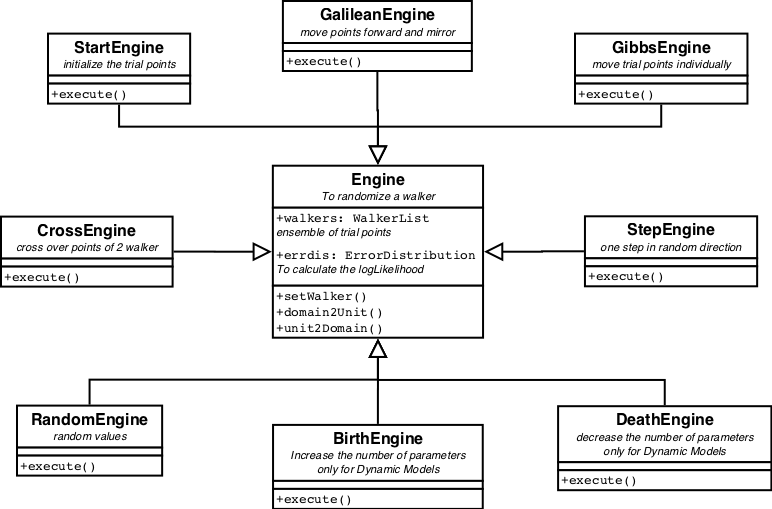
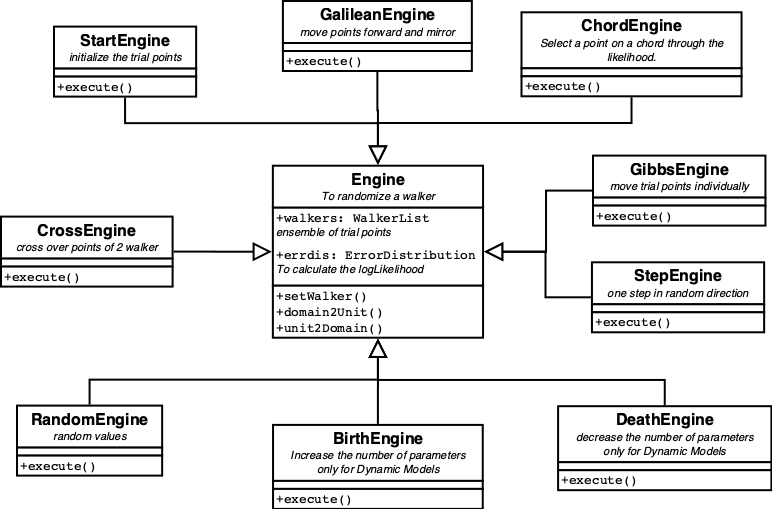
doc repairs

diff --git a/BayesicFitting/documentation/manual.md b/BayesicFitting/documentation/manual.md
@@ -955,12 +955,19 @@ parameter space such that the resulting walker is distributed randomly
 over the priors within the constraint that the likelihood associated
 with the walker remains higher than a preselected level.
 
-The engine of choice for continuous parameter estimation is the
-**GalileanEngine**. Starting at the copied walker it selects a random
+The engines of choice for continuous parameter estimation are the
+**GalileanEngine** and the **ChordEngine**. 
+
+The **GalileanEngine** starts at the copied walker. It selects a random
 step in parameter space and moves forward half a dozen times. When a
 step trespasses the likelihood boundary it mirrors on the boundary to
 get back into allowed space. If that is also unsuccesfull in reverses
 its steps.
+
+The **ChordEngine** selects a random direction, though its starting point.
+It extends that direction until is is outside the the selected level. 
+It selects a random point on the line. If it is inside the level, it is 
+the new point. Otherwise replace one of the endpoints and select again.
 
 The initial distribution of the walkers is made by **StartEngine**.
 
@@ -973,7 +980,7 @@ The keyword `rate` governs the speed of the engines. High rate equals
 high speed equals low accuracy.  
 
     ns = NestedSampler( xdata, model, ydata, speed=0.5,
-                        engines=["galilean", "gibbs", "step"] )
+                        engines=["galilean", "gibbs", "chord", "step"] )
 
 
 See below for lists of available [**Engine**s](#list-engines).
@@ -1307,6 +1314,8 @@ BaseFitters contain common methods for fitters that inherit from them.
 <a name="list-engines"></a>
 #### Engines.
 
++ **ChordEngine**<br>
+    Select a random point on a chord sliced though the likelihood.
 + **CrossEngine**<br>
     Cross over between 2 walkers.
 + **GalileanEngine**<br>
@@ -1426,6 +1435,8 @@ They can be encapsulated in a **KernelModel** or in a 2dim
     calculates radius and true anomaly (and derivatives) for Kepplers 2nd law.
 + **LogFactorial**<br>
     Natural logarithm of n!
++ **OrthonormalBasis**<br>
+    Construct a orthonormal basis from (random) vectors.
 + **Plotter**<br>
     Plot a model fitted to data.
 + **Tools**<br>

diff --git a/BayesicFitting/documentation/design.md b/BayesicFitting/documentation/design.md
@@ -573,6 +573,7 @@ to be provided when calculating the evidence.
 
 The way the walkers are moved around in the available parameter space is
 determined by the **Engine**s. Several **Engine**s are availble:
+""ChordEngine**, **GalileanEngine**, 
 **GibbsEngine**, **CrossEngine** and **StepEngine**. For
 **Dynamic**Models **BirthEngine** and **DeathEngine** are needed too.
 
